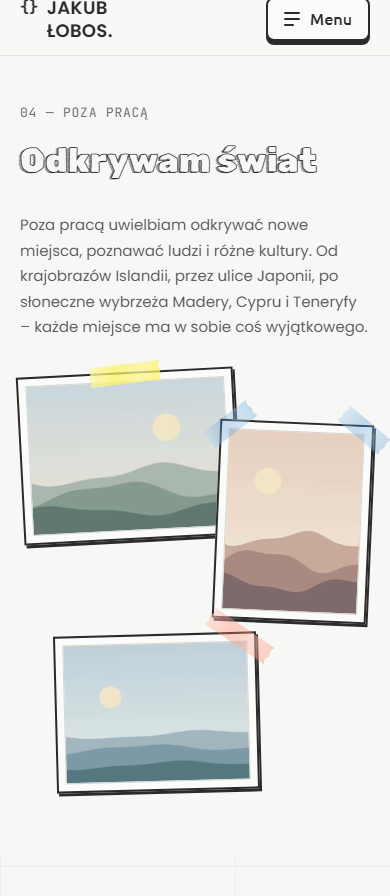
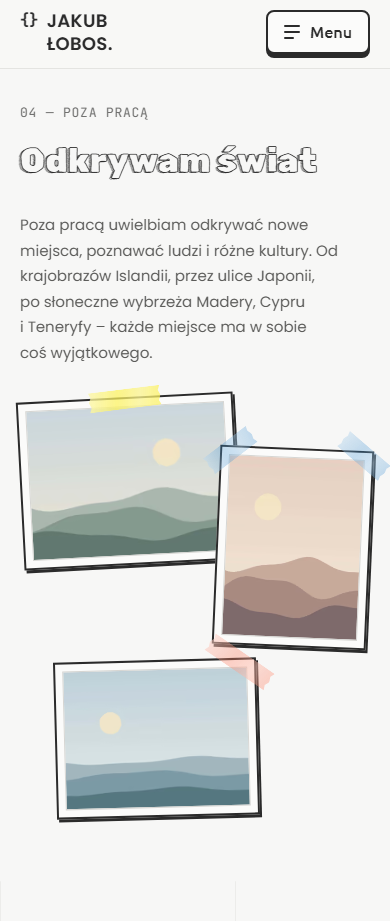
fix(web): crop collage photos to slots, right-size srcset, keep PL dashes inline [T-071]

diff --git a/apps/web/src/lib/pl-typography.test.ts b/apps/web/src/lib/pl-typography.test.ts
@@ -20,7 +20,7 @@ describe('polishTypography', () => {
     expect(polishTypography('do 30 dni, 100 wpisów, 1 rok, 120 znakach, 24 godzin')).toBe(
       `do 30${NBSP}dni, 100${NBSP}wpisów, 1${NBSP}rok, 120${NBSP}znakach, 24${NBSP}godzin`,
     );
-    expect(polishTypography('2023 — obecnie')).toBe('2023 — obecnie');
+    expect(polishTypography('2023 — obecnie')).toBe(`2023${NBSP}— obecnie`);
     expect(polishTypography('5 dniach')).toBe(`5${NBSP}dniach`);
   });
 
@@ -28,6 +28,14 @@ describe('polishTypography', () => {
     expect(polishTypography('(maks. 60 znaków), min. 10 znaków, art. 6 ust. 1 lit. a zgoda')).toBe(
       `(maks.${NBSP}60${NBSP}znaków), min.${NBSP}10${NBSP}znaków, art.${NBSP}6 ust.${NBSP}1 lit.${NBSP}a${NBSP}zgoda`,
     );
+  });
+
+  it('keeps a spaced dash on the line of the word before it', () => {
+    expect(polishTypography('Madery, Cypru i Teneryfy – każde miejsce')).toBe(
+      `Madery, Cypru i${NBSP}Teneryfy${NBSP}– każde miejsce`,
+    );
+    expect(polishTypography('od — do')).toBe(`od${NBSP}— do`);
+    expect(polishTypography('bez-spacji plus - minus')).toBe('bez-spacji plus - minus');
   });
 
   it('is idempotent and keeps placeholders intact', () => {

diff --git a/apps/web/src/lib/pl-typography.ts b/apps/web/src/lib/pl-typography.ts
@@ -10,16 +10,20 @@ const NUMBER_UNIT =
 // Abbreviations that introduce a number or a letter ("min. 10", "art. 6", "lit. a").
 const ABBREVIATION = /(?<!\p{L})(art|ust|lit|min|maks|nr)\. (?=\S)/gu;
 
+// A spaced en or em dash must not start a line, so the space before it is non-breaking.
+const SPACED_DASH = / (?=[–—] )/gu;
+
 /**
  * Applies Polish typographic conventions to a string: non-breaking spaces after single-letter
  * words, between a number and its unit, and after the abbreviations "art.", "ust.", "lit.",
- * "min.", "maks." and "nr". Idempotent and safe to run on strings with `{placeholders}`.
+ * "min.", "maks." and "nr", and before a spaced en or em dash. Idempotent and safe to run on strings with `{placeholders}`.
  */
 export function polishTypography(text: string): string {
   return (
     text
       .replace(ABBREVIATION, `$1.${NBSP}`)
       .replace(NUMBER_UNIT, `$1${NBSP}`)
+      .replace(SPACED_DASH, NBSP)
       // Last, so that "lit. a zgoda" binds the letter too (the abbreviation rule adds a NBSP
       // before it, which the single-letter lookbehind does not mind).
       .replace(SINGLE_LETTER, `$1${NBSP}`)

diff --git a/apps/web/src/content/outside.ts b/apps/web/src/content/outside.ts
@@ -14,7 +14,8 @@ export interface OutsidePhoto {
 }
 
 // TODO(owner): the three photos are generated placeholders. To use real ones, replace the files
-// in src/assets/outside/ and write the real alt text below. PL alt texts are drafts (D-02).
+// in src/assets/outside/ (any size or ratio: each is cropped to its collage slot, 4:3, 3:4, 4:3)
+// and write the real alt text below. PL alt texts are drafts (D-02).
 const rawPhotos: readonly OutsidePhoto[] = [
   {
     id: 'photo-1',
